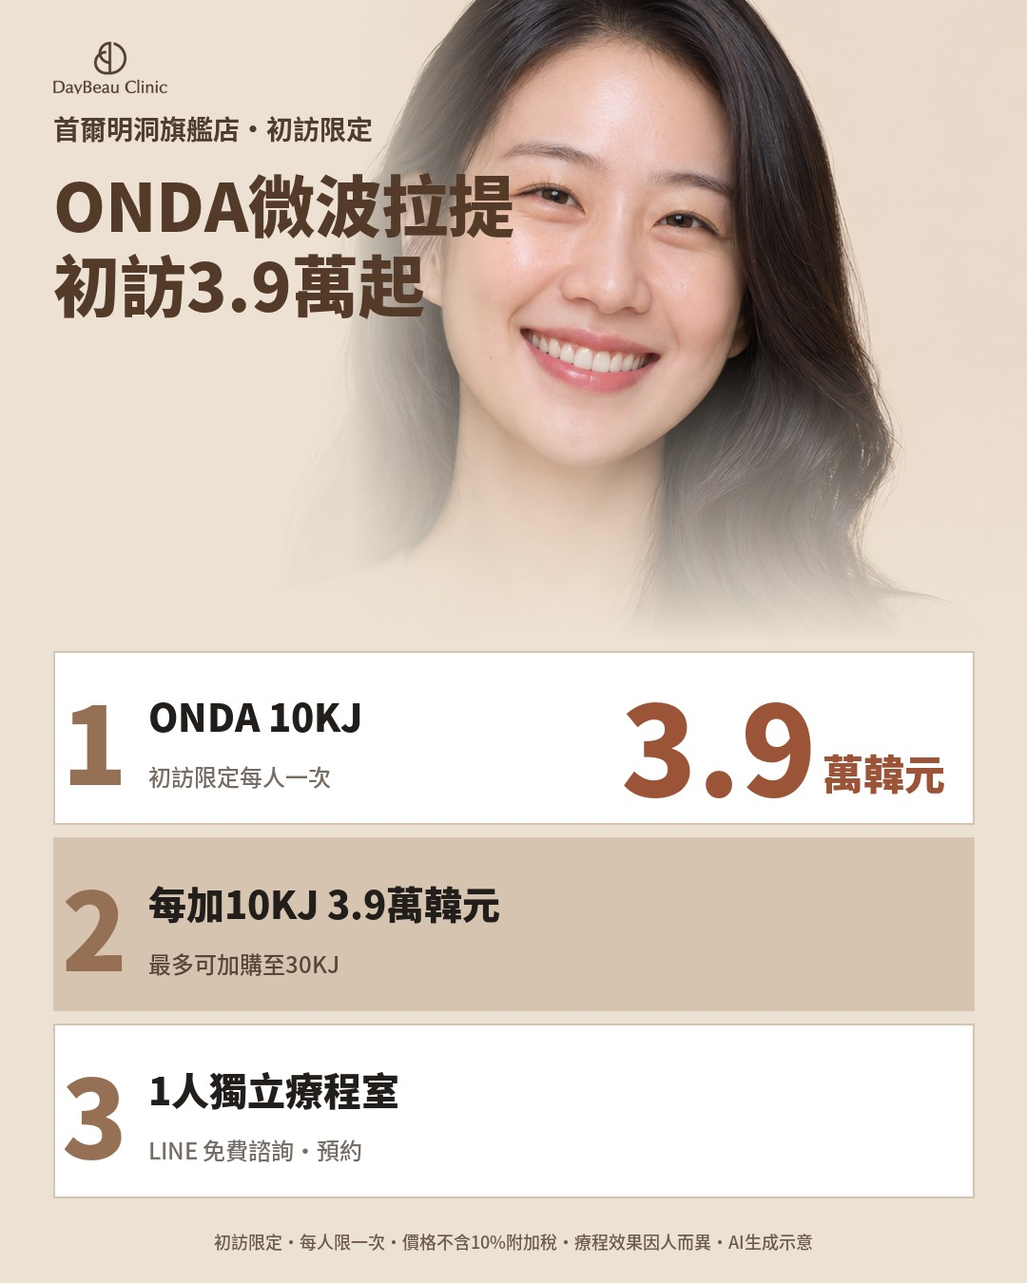
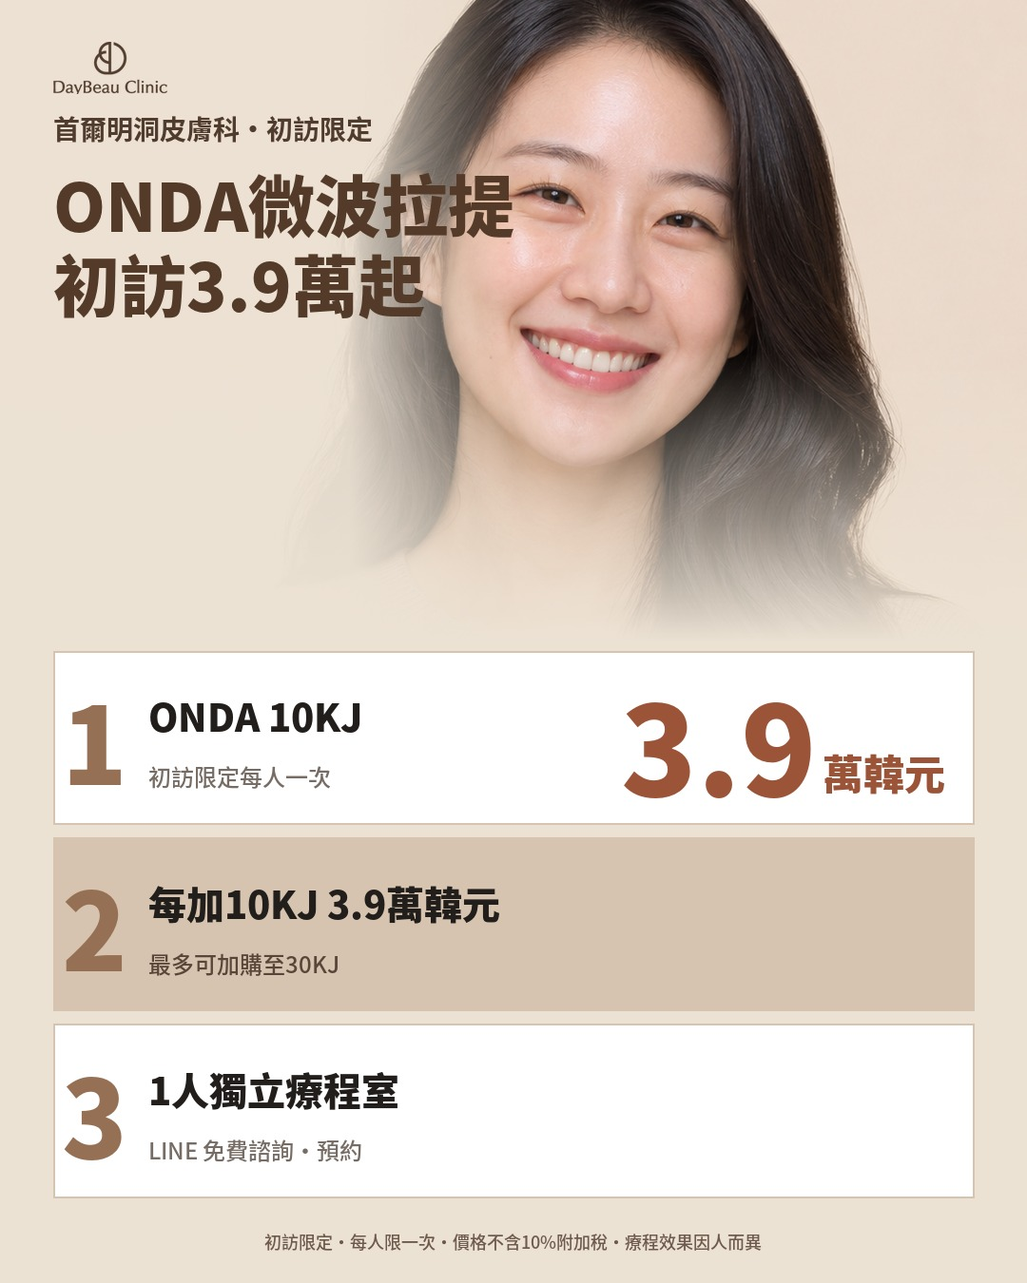
Claude: review-261112 게시

Changed region(s): [[0.2139, 0.9644, 0.7944, 0.9956], [0.1528, 0.0933, 0.2444, 0.1244]]

diff --git a/review-261112/index.html b/review-261112/index.html
@@ -17,13 +17,13 @@ table{border-collapse:collapse;width:100%;margin-top:14px;font-size:14px} td,th{
 <p class="lead">왼쪽 우리 소재(4:5), 오른쪽 짝지은 레퍼런스(2026-11-12 기준 집행 중인 광고. 온다_가격형1만 일본 광고, 나머지는 대만). 1:1·9:16 파일은 같은 이름으로 함께 있습니다. 빠진 소재: 온다_셀카형1, 포텐자쥬베룩_셀카형1, 플래시형, 진정형, 다이어리형.</p>
 <section><h2>온다울쎄라_고민형1 <span class="b new">새 화보</span></h2><p class="ref">레퍼런스: PRIA 「頸闊肌肉毒」 (2026-04-14부터 집행 중)</p>
 <div class="pair"><div class="ours"><img src="clips/온다울쎄라_고민형1_TW_4x5.jpg" alt=""></div><div class="theirs"><img src="ref/대만_4342478389414057_1.jpg" alt=""></div></div>
-<table><tr><th>번체</th><th>한국어</th></tr><tr><td lang='zh-Hant'>初訪限定！首爾明洞旗艦店</td><td>첫 방문 한정! 서울 명동 본점</td></tr><tr><td lang='zh-Hant'>下顎線條・臉頰鬆垮</td><td>턱선·볼 처짐</td></tr><tr><td lang='zh-Hant'>就靠『音波＋ONDA』</td><td>『울쎄라+온다』로 해결</td></tr><tr><td lang='zh-Hant'>99萬韓元 美國極線音波＋ONDA / 音波300發＋ONDA 40KJ</td><td>99만 원 미국 울쎄라+온다 / 울쎄라 300샷+온다 40KJ</td></tr><tr><td lang='zh-Hant'>初訪限定・每人限一次・價格不含10%附加稅・療程效果因人而異・AI生成示意</td><td>첫 방문 한정·1인 1회·가격 부가세 10% 별도·효과는 개인차·AI 생성 이미지</td></tr></table></section><section><h2>포텐자쥬베룩_고민형1 <span class="b new">새 화보</span></h2><p class="ref">레퍼런스: PRIA 「凹凸不平的凹陷疤痕」 (2026-09-29부터 집행 중)</p>
+<table><tr><th>번체</th><th>한국어</th></tr><tr><td lang='zh-Hant'>初訪限定！首爾明洞皮膚科</td><td>첫 방문 한정! 서울 명동 피부과</td></tr><tr><td lang='zh-Hant'>下顎線條・臉頰鬆垮</td><td>턱선·볼 처짐</td></tr><tr><td lang='zh-Hant'>就靠『音波＋ONDA』</td><td>『울쎄라+온다』로 해결</td></tr><tr><td lang='zh-Hant'>99萬韓元 美國極線音波＋ONDA / 音波300發＋ONDA 40KJ</td><td>99만 원 미국 울쎄라+온다 / 울쎄라 300샷+온다 40KJ</td></tr><tr><td lang='zh-Hant'>初訪限定・每人限一次・價格不含10%附加稅・療程效果因人而異</td><td>첫 방문 한정·1인 1회·가격 부가세 10% 별도·효과는 개인차</td></tr></table></section><section><h2>포텐자쥬베룩_고민형1 <span class="b new">새 화보</span></h2><p class="ref">레퍼런스: PRIA 「凹凸不平的凹陷疤痕」 (2026-09-29부터 집행 중)</p>
 <div class="pair"><div class="ours"><img src="clips/포텐자쥬베룩_고민형1_TW_4x5.jpg" alt=""></div><div class="theirs"><img src="ref/대만_28200883912915810_1.jpg" alt=""></div></div>
-<table><tr><th>번체</th><th>한국어</th></tr><tr><td lang='zh-Hant'>每次上妝都很在意的毛孔</td><td>화장할 때마다 신경 쓰이는 모공</td></tr><tr><td lang='zh-Hant'>毛孔粗大、上妝卡粉，</td><td>넓은 모공, 화장 들뜸,</td></tr><tr><td lang='zh-Hant'>你還要遮到什麼時候？</td><td>언제까지 가릴 건가요?</td></tr><tr><td lang='zh-Hant'>19萬韓元 黃金微針＋水光 / N探頭＋JUVELOOK 2CC</td><td>19만 원 포텐자+물광 / N팁+쥬베룩 2cc</td></tr><tr><td lang='zh-Hant'>初訪限定・每人限一次・價格不含10%附加稅・療程效果因人而異・AI生成示意</td><td>첫 방문 한정·1인 1회·가격 부가세 10% 별도·효과는 개인차·AI 생성 이미지</td></tr></table></section><section><h2>온다울쎄라_화보형1 <span class="b new">새 화보</span></h2><p class="ref">레퍼런스: 法喬醫美 「精緻感微翹鼻」 (대만 현지 병원, 2026-06-08부터 집행 중)</p>
+<table><tr><th>번체</th><th>한국어</th></tr><tr><td lang='zh-Hant'>每次上妝都很在意的毛孔</td><td>화장할 때마다 신경 쓰이는 모공</td></tr><tr><td lang='zh-Hant'>毛孔粗大、上妝卡粉，</td><td>넓은 모공, 화장 들뜸,</td></tr><tr><td lang='zh-Hant'>你還要遮到什麼時候？</td><td>언제까지 가릴 건가요?</td></tr><tr><td lang='zh-Hant'>19萬韓元 黃金微針＋水光 / N探頭＋JUVELOOK 2CC</td><td>19만 원 포텐자+물광 / N팁+쥬베룩 2cc</td></tr><tr><td lang='zh-Hant'>初訪限定・每人限一次・價格不含10%附加稅・療程效果因人而異</td><td>첫 방문 한정·1인 1회·가격 부가세 10% 별도·효과는 개인차</td></tr></table></section><section><h2>온다울쎄라_화보형1 <span class="b new">새 화보</span></h2><p class="ref">레퍼런스: 法喬醫美 「精緻感微翹鼻」 (대만 현지 병원, 2026-06-08부터 집행 중)</p>
 <div class="pair"><div class="ours"><img src="clips/온다울쎄라_화보형1_TW_4x5.jpg" alt=""></div><div class="theirs"><img src="ref/대만_4453394234914423_1.jpg" alt=""></div></div>
-<table><tr><th>번체</th><th>한국어</th></tr><tr><td lang='zh-Hant'>「首爾明洞旗艦店・初訪人氣組合」</td><td>「서울 명동 본점·첫 방문 인기 조합」</td></tr><tr><td lang='zh-Hant'>俐落輪廓感</td><td>날렵한 윤곽</td></tr><tr><td lang='zh-Hant'>99萬韓元 美國極線音波＋ONDA / 音波300發＋ONDA 40KJ</td><td>99만 원 미국 울쎄라+온다 / 울쎄라 300샷+온다 40KJ</td></tr><tr><td lang='zh-Hant'>初訪限定・每人限一次・價格不含10%附加稅・療程效果因人而異・AI生成示意</td><td>첫 방문 한정·1인 1회·가격 부가세 10% 별도·효과는 개인차·AI 생성 이미지</td></tr></table></section><section><h2>포텐자쥬베룩_화보형1 <span class="b new">새 화보</span></h2><p class="ref">레퍼런스: 法喬醫美 「胸形到位」 (대만 현지 병원, 2026-10-05부터 집행 중)</p>
+<table><tr><th>번체</th><th>한국어</th></tr><tr><td lang='zh-Hant'>「首爾明洞皮膚科・初訪人氣組合」</td><td>「서울 명동 피부과·첫 방문 인기 조합」</td></tr><tr><td lang='zh-Hant'>俐落輪廓感</td><td>날렵한 윤곽</td></tr><tr><td lang='zh-Hant'>99萬韓元 美國極線音波＋ONDA / 音波300發＋ONDA 40KJ</td><td>99만 원 미국 울쎄라+온다 / 울쎄라 300샷+온다 40KJ</td></tr><tr><td lang='zh-Hant'>初訪限定・每人限一次・價格不含10%附加稅・療程效果因人而異</td><td>첫 방문 한정·1인 1회·가격 부가세 10% 별도·효과는 개인차</td></tr></table></section><section><h2>포텐자쥬베룩_화보형1 <span class="b new">새 화보</span></h2><p class="ref">레퍼런스: 法喬醫美 「胸形到位」 (대만 현지 병원, 2026-10-05부터 집행 중)</p>
 <div class="pair"><div class="ours"><img src="clips/포텐자쥬베룩_화보형1_TW_4x5.jpg" alt=""></div><div class="theirs"><img src="ref/대만_2097931534149470_1.jpg" alt=""></div></div>
-<table><tr><th>번체</th><th>한국어</th></tr><tr><td lang='zh-Hant'>上妝卡粉？先顧好毛孔</td><td>화장이 들뜬다면? 모공부터 챙기세요</td></tr><tr><td lang='zh-Hant'>黃金微針＋水光，一次搞定！</td><td>포텐자+물광, 한 번에 해결!</td></tr><tr><td lang='zh-Hant'>探頭費已包含 / JUVELOOK 水光 2CC / 1人獨立療程室</td><td>팁 비용 포함 / 쥬베룩 물광 2cc / 1인 단독 시술실</td></tr><tr><td lang='zh-Hant'>N探頭＋JUVELOOK 2CC 19萬韓元</td><td>N팁+쥬베룩 2cc 19만 원</td></tr><tr><td lang='zh-Hant'>LINE 免費諮詢 →</td><td>LINE 무료 상담 →</td></tr><tr><td lang='zh-Hant'>初訪限定・每人限一次・價格不含10%附加稅・療程效果因人而異・AI生成示意</td><td>첫 방문 한정·1인 1회·가격 부가세 10% 별도·효과는 개인차·AI 생성 이미지</td></tr></table></section><section><h2>온다_분할형1 <span class="b new">새 화보</span></h2><p class="ref">레퍼런스: 톡스앤필 명동 「SCULPTRA 1瓶 65萬韓元」 (2026-08-20부터 집행 중)</p>
+<table><tr><th>번체</th><th>한국어</th></tr><tr><td lang='zh-Hant'>上妝卡粉？先顧好毛孔</td><td>화장이 들뜬다면? 모공부터 챙기세요</td></tr><tr><td lang='zh-Hant'>黃金微針＋水光，一次搞定！</td><td>포텐자+물광, 한 번에 해결!</td></tr><tr><td lang='zh-Hant'>探頭費已包含 / JUVELOOK 水光 2CC / 1人獨立療程室</td><td>팁 비용 포함 / 쥬베룩 물광 2cc / 1인 단독 시술실</td></tr><tr><td lang='zh-Hant'>N探頭＋JUVELOOK 2CC 19萬韓元</td><td>N팁+쥬베룩 2cc 19만 원</td></tr><tr><td lang='zh-Hant'>LINE 免費諮詢 →</td><td>LINE 무료 상담 →</td></tr><tr><td lang='zh-Hant'>初訪限定・每人限一次・價格不含10%附加稅・療程效果因人而異</td><td>첫 방문 한정·1인 1회·가격 부가세 10% 별도·효과는 개인차</td></tr></table></section><section><h2>온다_분할형1 <span class="b new">새 화보</span></h2><p class="ref">레퍼런스: 톡스앤필 명동 「SCULPTRA 1瓶 65萬韓元」 (2026-08-20부터 집행 중)</p>
 <div class="pair"><div class="ours"><img src="clips/온다_분할형1_TW_4x5.jpg" alt=""></div><div class="theirs"><img src="ref/대만_2325900291484842_1.jpg" alt=""></div></div>
 <table><tr><th>번체</th><th>한국어</th></tr><tr><td lang='zh-Hant'>FIRST VISIT 初訪限定</td><td>첫 방문 한정</td></tr><tr><td lang='zh-Hant'>微波緊緻拉提 ONDA</td><td>마이크로웨이브 탄력 리프팅 온다</td></tr><tr><td lang='zh-Hant'>每10KJ 3.9萬・最多加購至30KJ</td><td>10KJ당 3.9만·최대 30KJ까지 추가</td></tr><tr><td lang='zh-Hant'>ONDA 10KJ 3.9萬韓元</td><td>온다 10KJ 3.9만 원</td></tr><tr><td lang='zh-Hant'>本價格未包含10%的附加稅・初訪限定每人一次</td><td>부가세 10% 별도·첫 방문 1인 1회</td></tr></table></section><section><h2>온다울쎄라_분할형1 <span class="b new">새 화보</span></h2><p class="ref">레퍼런스: 톡스앤필 명동 「SCULPTRA 1瓶 65萬韓元」 (2026-08-20부터 집행 중)</p>
 <div class="pair"><div class="ours"><img src="clips/온다울쎄라_분할형1_TW_4x5.jpg" alt=""></div><div class="theirs"><img src="ref/대만_2325900291484842_1.jpg" alt=""></div></div>
@@ -31,20 +31,20 @@ table{border-collapse:collapse;width:100%;margin-top:14px;font-size:14px} td,th{
 <div class="pair"><div class="ours"><img src="clips/포텐자쥬베룩_분할형1_TW_4x5.jpg" alt=""></div><div class="theirs"><img src="ref/대만_2325900291484842_1.jpg" alt=""></div></div>
 <table><tr><th>번체</th><th>한국어</th></tr><tr><td lang='zh-Hant'>黃金微針＋水光 / POTENZA × JUVELOOK</td><td>포텐자+물광 / 포텐자×쥬베룩</td></tr><tr><td lang='zh-Hant'>探頭費已包含・毛孔×膚質</td><td>팁 비용 포함·모공×피부결</td></tr><tr><td lang='zh-Hant'>N探頭＋JUVELOOK 2CC 19萬韓元</td><td>N팁+쥬베룩 2cc 19만 원</td></tr></table></section><section><h2>온다울쎄라_가이드형1 <span class="b new">새 화보</span></h2><p class="ref">레퍼런스: PRIA 「天鵝頸肉毒」 (2026-05-01부터 집행 중)</p>
 <div class="pair"><div class="ours"><img src="clips/온다울쎄라_가이드형1_TW_4x5.jpg" alt=""></div><div class="theirs"><img src="ref/대만_1389311029899679_1.jpg" alt=""></div></div>
-<table><tr><th>번체</th><th>한국어</th></tr><tr><td lang='zh-Hant'>下顎線條拉提 / 美國極線音波＋ONDA</td><td>턱선 리프팅 / 미국 울쎄라+온다</td></tr><tr><td lang='zh-Hant'>音波＋ONDA 下顎・頸部線條更俐落，筋膜層＋脂肪層一次處理！</td><td>울쎄라+온다로 턱·목 라인을 더 깔끔하게, 근막층+지방층 한 번에!</td></tr><tr><td lang='zh-Hant'>初訪限定・每人限一次</td><td>첫 방문 한정·1인 1회</td></tr><tr><td lang='zh-Hant'>99萬韓元 美國極線音波＋ONDA / 音波300發＋ONDA 40KJ</td><td>99만 원 미국 울쎄라+온다 / 울쎄라 300샷+온다 40KJ</td></tr><tr><td lang='zh-Hant'>初訪限定・每人限一次・價格不含10%附加稅・療程效果因人而異・AI生成示意</td><td>첫 방문 한정·1인 1회·가격 부가세 10% 별도·효과는 개인차·AI 생성 이미지</td></tr></table></section><section><h2>포텐자쥬베룩_정보형1 <span class="b new">새 화보</span></h2><p class="ref">레퍼런스: ZERO LAB 「麗珠蘭」 (2026-09-21부터 집행 중)</p>
+<table><tr><th>번체</th><th>한국어</th></tr><tr><td lang='zh-Hant'>下顎線條拉提 / 美國極線音波＋ONDA</td><td>턱선 리프팅 / 미국 울쎄라+온다</td></tr><tr><td lang='zh-Hant'>音波＋ONDA 下顎・頸部線條更俐落，筋膜層＋脂肪層一次處理！</td><td>울쎄라+온다로 턱·목 라인을 더 깔끔하게, 근막층+지방층 한 번에!</td></tr><tr><td lang='zh-Hant'>初訪限定・每人限一次</td><td>첫 방문 한정·1인 1회</td></tr><tr><td lang='zh-Hant'>99萬韓元 美國極線音波＋ONDA / 音波300發＋ONDA 40KJ</td><td>99만 원 미국 울쎄라+온다 / 울쎄라 300샷+온다 40KJ</td></tr><tr><td lang='zh-Hant'>初訪限定・每人限一次・價格不含10%附加稅・療程效果因人而異</td><td>첫 방문 한정·1인 1회·가격 부가세 10% 별도·효과는 개인차</td></tr></table></section><section><h2>포텐자쥬베룩_정보형1 <span class="b new">새 화보</span></h2><p class="ref">레퍼런스: ZERO LAB 「麗珠蘭」 (2026-09-21부터 집행 중)</p>
 <div class="pair"><div class="ours"><img src="clips/포텐자쥬베룩_정보형1_TW_4x5.jpg" alt=""></div><div class="theirs"><img src="ref/대만_1547164503760365_1.jpg" alt=""></div></div>
-<table><tr><th>번체</th><th>한국어</th></tr><tr><td lang='zh-Hant'>黃金微針 ＋JUVELOOK水光 喚醒細緻膚質</td><td>포텐자 +쥬베룩 물광, 매끈한 피부결로</td></tr><tr><td lang='zh-Hant'>探頭費已包含 / 改善毛孔粗大 / 水光保濕光澤</td><td>팁 비용 포함 / 넓은 모공 개선 / 물광 보습 윤기</td></tr><tr><td lang='zh-Hant'>N探頭＋JUVELOOK 2CC・初訪限定</td><td>N팁+쥬베룩 2cc·첫 방문 한정</td></tr><tr><td lang='zh-Hant'>19萬韓元</td><td>19만 원</td></tr><tr><td lang='zh-Hant'>初訪限定・每人限一次・價格不含10%附加稅・療程效果因人而異・AI生成示意</td><td>첫 방문 한정·1인 1회·가격 부가세 10% 별도·효과는 개인차·AI 생성 이미지</td></tr></table></section><section><h2>온다_혜택형1 <span class="b new">새 화보</span></h2><p class="ref">레퍼런스: toxnfill 「金秋限時折 美麗再升級」 (2026-09-08부터 집행 중)</p>
+<table><tr><th>번체</th><th>한국어</th></tr><tr><td lang='zh-Hant'>黃金微針 ＋JUVELOOK水光 喚醒細緻膚質</td><td>포텐자 +쥬베룩 물광, 매끈한 피부결로</td></tr><tr><td lang='zh-Hant'>探頭費已包含 / 改善毛孔粗大 / 水光保濕光澤</td><td>팁 비용 포함 / 넓은 모공 개선 / 물광 보습 윤기</td></tr><tr><td lang='zh-Hant'>N探頭＋JUVELOOK 2CC・初訪限定</td><td>N팁+쥬베룩 2cc·첫 방문 한정</td></tr><tr><td lang='zh-Hant'>19萬韓元</td><td>19만 원</td></tr><tr><td lang='zh-Hant'>初訪限定・每人限一次・價格不含10%附加稅・療程效果因人而異</td><td>첫 방문 한정·1인 1회·가격 부가세 10% 별도·효과는 개인차</td></tr></table></section><section><h2>온다_혜택형1 <span class="b new">새 화보</span></h2><p class="ref">레퍼런스: toxnfill 「金秋限時折 美麗再升級」 (2026-09-08부터 집행 중)</p>
 <div class="pair"><div class="ours"><img src="clips/온다_혜택형1_TW_4x5.jpg" alt=""></div><div class="theirs"><img src="ref/대만_2887912921565432_1.jpg" alt=""></div></div>
-<table><tr><th>번체</th><th>한국어</th></tr><tr><td lang='zh-Hant'>首爾明洞旗艦店・初訪限定</td><td>서울 명동 본점·첫 방문 한정</td></tr><tr><td lang='zh-Hant'>ONDA微波拉提 初訪3.9萬起</td><td>온다 리프팅 첫 방문 3.9만 원부터</td></tr><tr><td lang='zh-Hant'>1 ONDA 10KJ 3.9萬韓元 / 初訪限定每人一次</td><td>1 온다 10KJ 3.9만 원 / 첫 방문 1인 1회</td></tr><tr><td lang='zh-Hant'>2 每加10KJ 3.9萬韓元 / 最多可加購至30KJ</td><td>2 10KJ 추가마다 3.9만 원 / 최대 30KJ까지 추가</td></tr><tr><td lang='zh-Hant'>3 1人獨立療程室 / LINE 免費諮詢・預約</td><td>3 1인 단독 시술실 / LINE 무료 상담·예약</td></tr><tr><td lang='zh-Hant'>初訪限定・每人限一次・價格不含10%附加稅・療程效果因人而異・AI生成示意</td><td>첫 방문 한정·1인 1회·가격 부가세 10% 별도·효과는 개인차·AI 생성 이미지</td></tr></table></section><section><h2>온다_가격형1 <span class="b new">새 화보</span></h2><p class="ref">레퍼런스: 지유클리닉 일본 광고 ONDA 「20万ウォン 初回限定価格」 (2026-07-21부터 집행 중, 무드 맞춰 대만어로 옮김)</p>
+<table><tr><th>번체</th><th>한국어</th></tr><tr><td lang='zh-Hant'>首爾明洞皮膚科・初訪限定</td><td>서울 명동 피부과·첫 방문 한정</td></tr><tr><td lang='zh-Hant'>ONDA微波拉提 初訪3.9萬起</td><td>온다 리프팅 첫 방문 3.9만 원부터</td></tr><tr><td lang='zh-Hant'>1 ONDA 10KJ 3.9萬韓元 / 初訪限定每人一次</td><td>1 온다 10KJ 3.9만 원 / 첫 방문 1인 1회</td></tr><tr><td lang='zh-Hant'>2 每加10KJ 3.9萬韓元 / 最多可加購至30KJ</td><td>2 10KJ 추가마다 3.9만 원 / 최대 30KJ까지 추가</td></tr><tr><td lang='zh-Hant'>3 1人獨立療程室 / LINE 免費諮詢・預約</td><td>3 1인 단독 시술실 / LINE 무료 상담·예약</td></tr><tr><td lang='zh-Hant'>初訪限定・每人限一次・價格不含10%附加稅・療程效果因人而異</td><td>첫 방문 한정·1인 1회·가격 부가세 10% 별도·효과는 개인차</td></tr></table></section><section><h2>온다_가격형1 <span class="b new">새 화보</span></h2><p class="ref">레퍼런스: 지유클리닉 일본 광고 ONDA 「20万ウォン 初回限定価格」 (2026-07-21부터 집행 중, 무드 맞춰 대만어로 옮김)</p>
 <div class="pair"><div class="ours"><img src="clips/온다_가격형1_TW_4x5.jpg" alt=""></div><div class="theirs"><img src="ref/일본_지유클리닉_1767303938054227_1.jpg" alt=""></div></div>
-<table><tr><th>번체</th><th>한국어</th></tr><tr><td lang='zh-Hant'>3.9萬韓元</td><td>3.9만 원</td></tr><tr><td lang='zh-Hant'>ONDA微波拉提・雙下巴・臉頰鬆垮</td><td>온다 리프팅·이중턱·볼 처짐</td></tr><tr><td lang='zh-Hant'>微波能量深入脂肪層，緊緻輪廓線條！</td><td>마이크로웨이브가 지방층까지, 윤곽 라인을 탄탄하게!</td></tr><tr><td lang='zh-Hant'>初訪限定價格 10KJ</td><td>첫 방문 한정 가격 10KJ</td></tr><tr><td lang='zh-Hant'>初訪限定・每人限一次・價格不含10%附加稅・療程效果因人而異・AI生成示意</td><td>첫 방문 한정·1인 1회·가격 부가세 10% 별도·효과는 개인차·AI 생성 이미지</td></tr></table></section><section><h2>온다_띠형1 <span class="b new">새 화보</span></h2><p class="ref">레퍼런스: 오션클리닉 「首爾江南站 皮膚科」 (2026-07-10부터 집행 중)</p>
+<table><tr><th>번체</th><th>한국어</th></tr><tr><td lang='zh-Hant'>3.9萬韓元</td><td>3.9만 원</td></tr><tr><td lang='zh-Hant'>ONDA微波拉提・雙下巴・臉頰鬆垮</td><td>온다 리프팅·이중턱·볼 처짐</td></tr><tr><td lang='zh-Hant'>微波能量深入脂肪層，緊緻輪廓線條！</td><td>마이크로웨이브가 지방층까지, 윤곽 라인을 탄탄하게!</td></tr><tr><td lang='zh-Hant'>初訪限定價格 10KJ</td><td>첫 방문 한정 가격 10KJ</td></tr><tr><td lang='zh-Hant'>初訪限定・每人限一次・價格不含10%附加稅・療程效果因人而異</td><td>첫 방문 한정·1인 1회·가격 부가세 10% 별도·효과는 개인차</td></tr></table></section><section><h2>온다_띠형1 <span class="b new">새 화보</span></h2><p class="ref">레퍼런스: 오션클리닉 「首爾江南站 皮膚科」 (2026-07-10부터 집행 중)</p>
 <div class="pair"><div class="ours"><img src="clips/온다_띠형1_TW_4x5.jpg" alt=""></div><div class="theirs"><img src="ref/대만_1349525763207692_1.jpg" alt=""></div></div>
-<table><tr><th>번체</th><th>한국어</th></tr><tr><td lang='zh-Hant'>首爾明洞 皮膚科</td><td>서울 명동 피부과</td></tr><tr><td lang='zh-Hant'>微波能量 緊緻全臉輪廓</td><td>마이크로웨이브로 얼굴 윤곽 전체를 탄탄하게</td></tr><tr><td lang='zh-Hant'>ONDA 10KJ 3.9萬韓元</td><td>온다 10KJ 3.9만 원</td></tr><tr><td lang='zh-Hant'>DAYBEAU 明洞旗艦店・初訪限定</td><td>데이뷰 명동 본점·첫 방문 한정</td></tr><tr><td lang='zh-Hant'>初訪限定・每人限一次・價格不含10%附加稅・療程效果因人而異・AI生成示意</td><td>첫 방문 한정·1인 1회·가격 부가세 10% 별도·효과는 개인차·AI 생성 이미지</td></tr></table></section><section><h2>전체시술_혜택형1 <span class="b keep">유지</span></h2><p class="ref">레퍼런스: 데이뷰 대만 「LIFTING BENEFIT」 (사진 없는 가격 카드, 레퍼런스대로 유지)</p>
-<div class="pair"><div class="ours"><img src="clips/v3_benefit.jpg" alt=""></div><div class="theirs"><div class="noref">레퍼런스 이미지 없음<br>(구조만 따름)</div></div></div>
+<table><tr><th>번체</th><th>한국어</th></tr><tr><td lang='zh-Hant'>首爾明洞 皮膚科</td><td>서울 명동 피부과</td></tr><tr><td lang='zh-Hant'>微波能量 緊緻全臉輪廓</td><td>마이크로웨이브로 얼굴 윤곽 전체를 탄탄하게</td></tr><tr><td lang='zh-Hant'>ONDA 10KJ 3.9萬韓元</td><td>온다 10KJ 3.9만 원</td></tr><tr><td lang='zh-Hant'>DAYBEAU 明洞皮膚科・初訪限定</td><td>데이뷰 명동 피부과·첫 방문 한정</td></tr><tr><td lang='zh-Hant'>初訪限定・每人限一次・價格不含10%附加稅・療程效果因人而異</td><td>첫 방문 한정·1인 1회·가격 부가세 10% 별도·효과는 개인차</td></tr></table></section><section><h2>전체시술_혜택형1 <span class="b keep">유지</span></h2><p class="ref">레퍼런스: 데이뷰 대만 「LIFTING BENEFIT」 (사진 없는 가격 카드, 레퍼런스대로 유지)</p>
+<div class="pair"><div class="ours"><img src="clips/전체시술_혜택형1_TW_4x5.jpg" alt=""></div><div class="theirs"><div class="noref">레퍼런스 이미지 없음<br>(구조만 따름)</div></div></div>
 </section><section><h2>전체시술_메뉴형1 <span class="b keep">유지</span></h2><p class="ref">레퍼런스: 가격표만, 그대로 유지</p>
-<div class="pair"><div class="ours"><img src="clips/v3_menu.jpg" alt=""></div><div class="theirs"><div class="noref">레퍼런스 이미지 없음<br>(구조만 따름)</div></div></div>
+<div class="pair"><div class="ours"><img src="clips/전체시술_메뉴형1_TW_4x5.jpg" alt=""></div><div class="theirs"><div class="noref">레퍼런스 이미지 없음<br>(구조만 따름)</div></div></div>
 </section><section><h2>전체시술_원장형1 <span class="b keep">유지</span></h2><p class="ref">레퍼런스: 佳思優 「美國二代音波」 (실제 원장 사진, 그대로)</p>
-<div class="pair"><div class="ours"><img src="clips/v3_doctor.jpg" alt=""></div><div class="theirs"><div class="noref">레퍼런스 이미지 없음<br>(구조만 따름)</div></div></div>
+<div class="pair"><div class="ours"><img src="clips/전체시술_원장형1_TW_4x5.jpg" alt=""></div><div class="theirs"><div class="noref">레퍼런스 이미지 없음<br>(구조만 따름)</div></div></div>
 </section><section><h2>전체시술_이유형1 (캐러셀 5장) <span class="b keep">유지</span></h2><p class="ref">레퍼런스: PRIA 「WHY PRiA」 (2026-05-28부터 집행 중, 실사진 그대로)</p>
-<div class="pair"><div class="ours"><img src="clips/c07.jpg" alt=""><img src="clips/c08.jpg" alt=""><img src="clips/c09.jpg" alt=""><img src="clips/c10.jpg" alt=""><img src="clips/c11.jpg" alt=""></div><div class="theirs"><img src="ref/대만_1606243277114597_1.jpg" alt=""></div></div>
+<div class="pair"><div class="ours"><img src="clips/전체시술_이유형1_1표지_TW_4x5.jpg" alt=""><img src="clips/전체시술_이유형1_2_TW_4x5.jpg" alt=""><img src="clips/전체시술_이유형1_3_TW_4x5.jpg" alt=""><img src="clips/전체시술_이유형1_4_TW_4x5.jpg" alt=""><img src="clips/전체시술_이유형1_5마지막_TW_4x5.jpg" alt=""></div><div class="theirs"><img src="ref/대만_1606243277114597_1.jpg" alt=""></div></div>
 </section></main></html>
